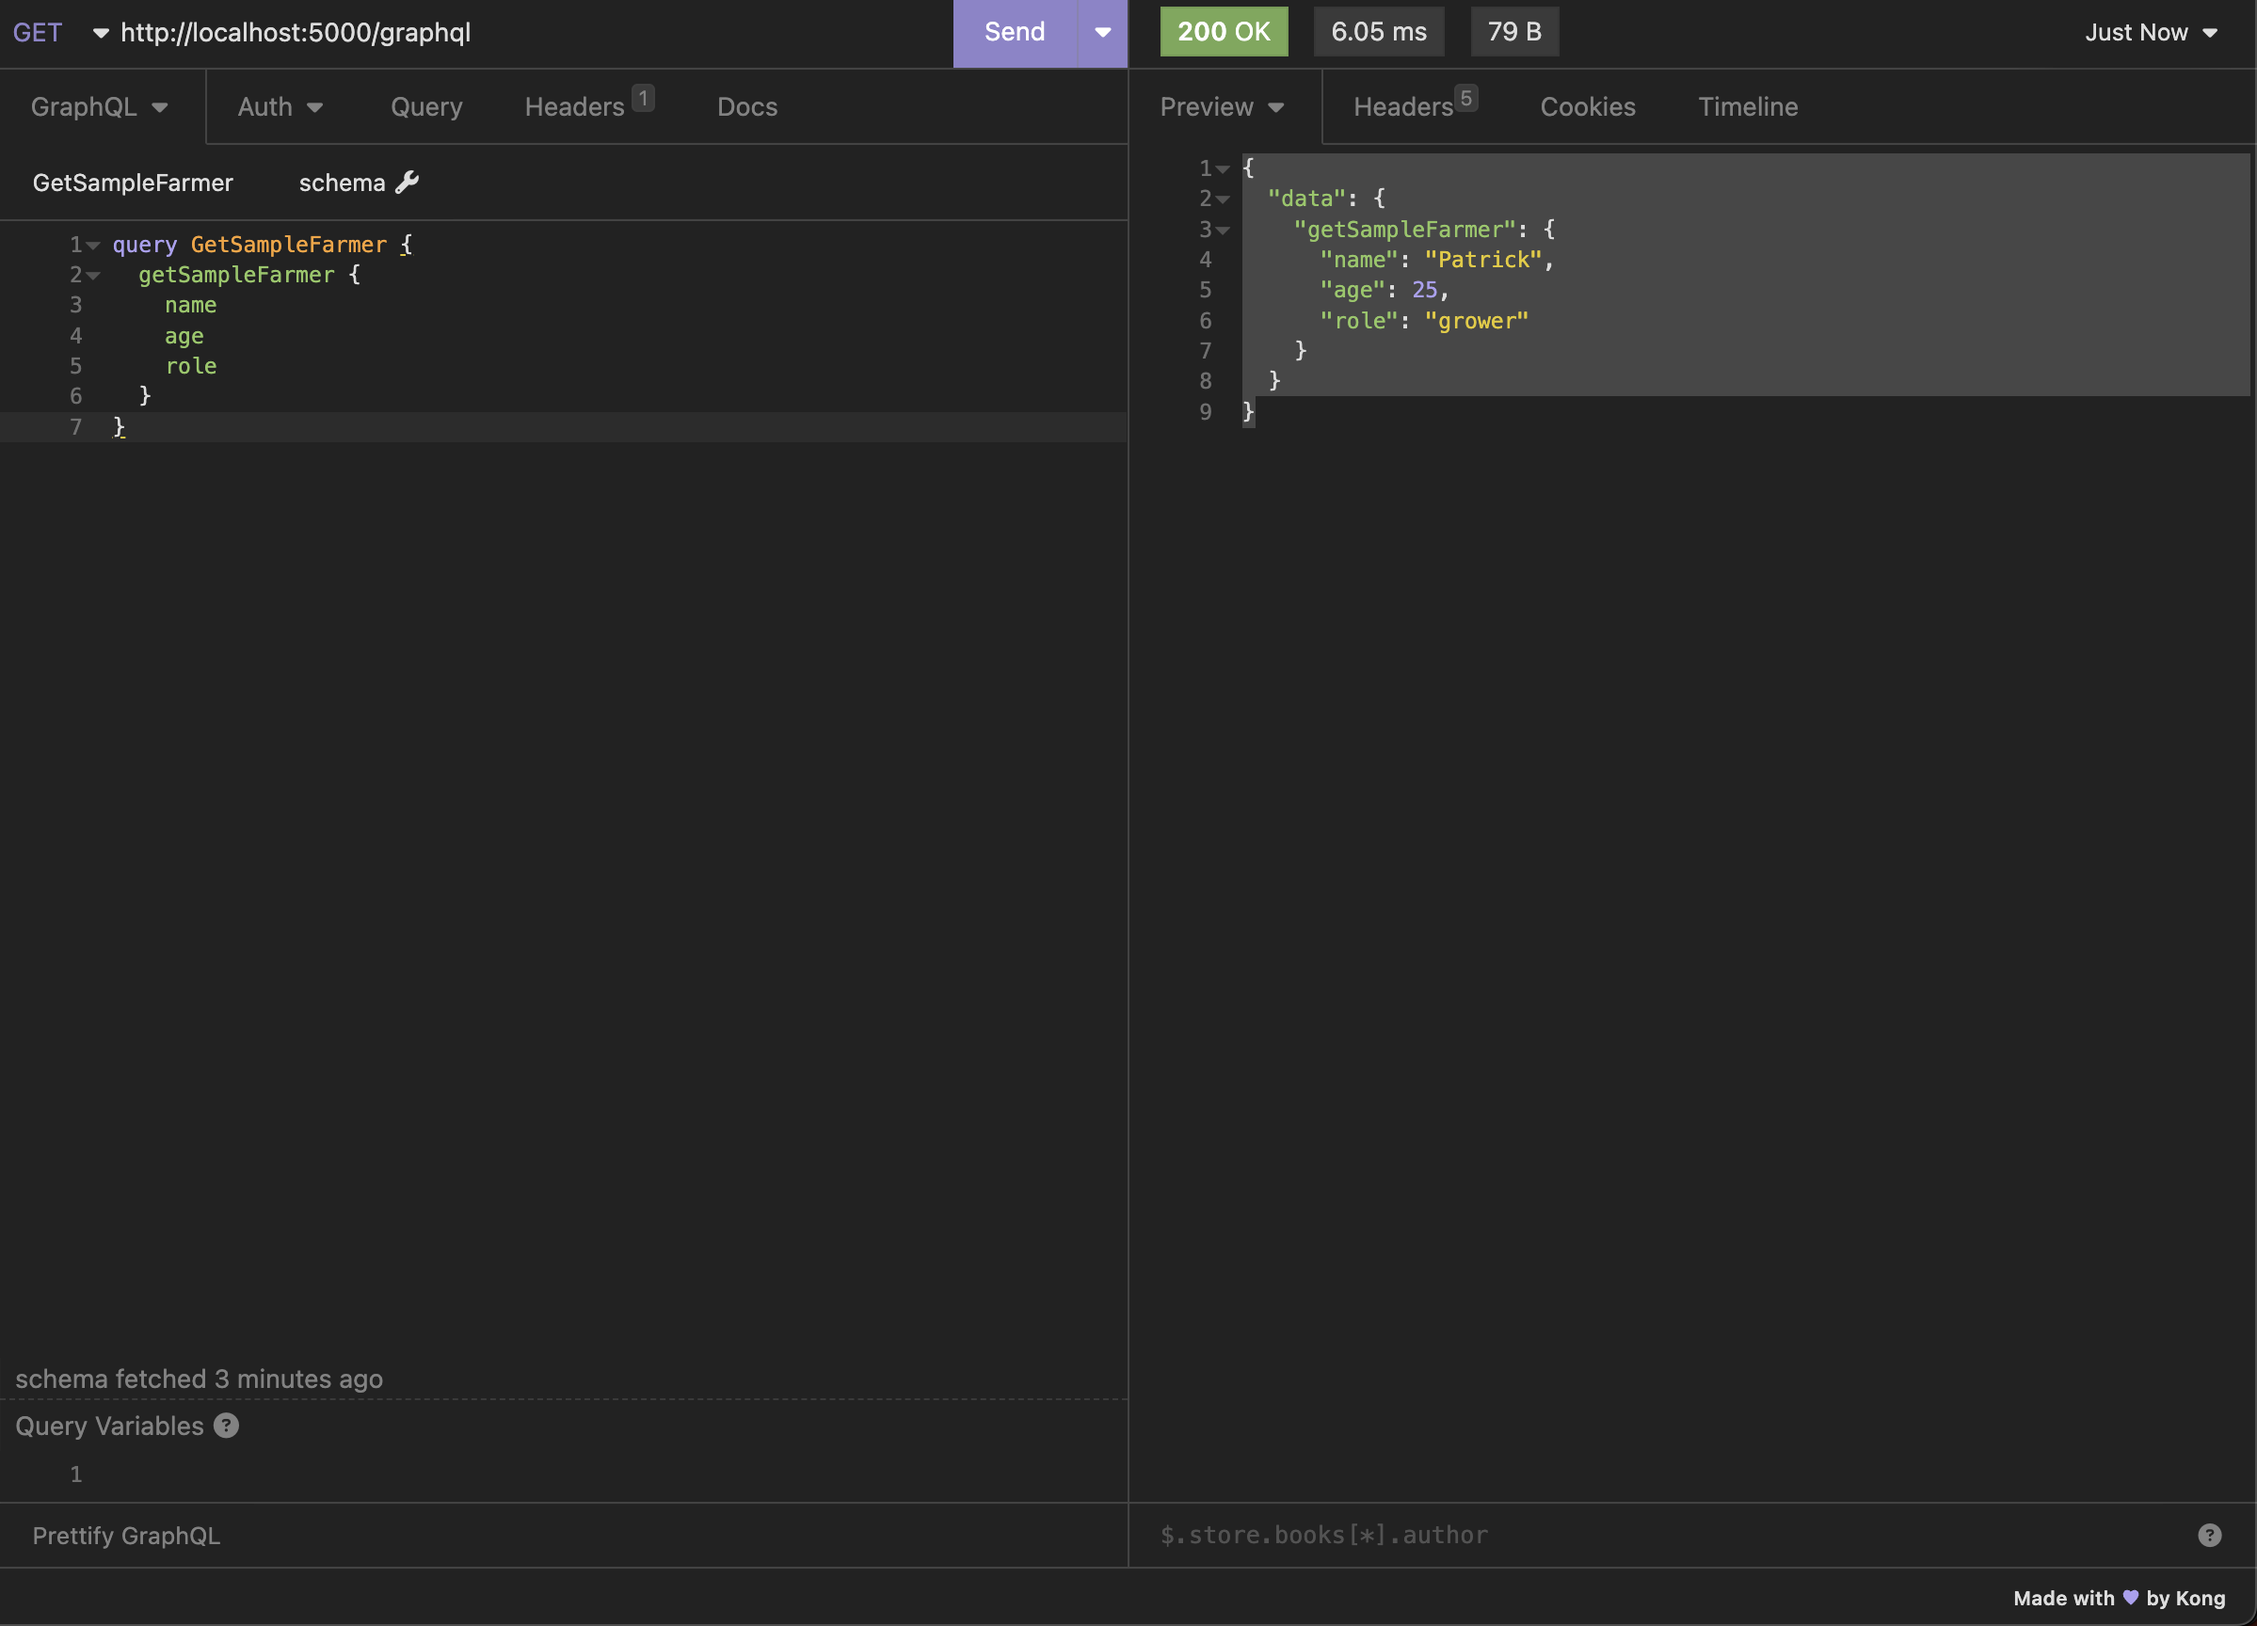
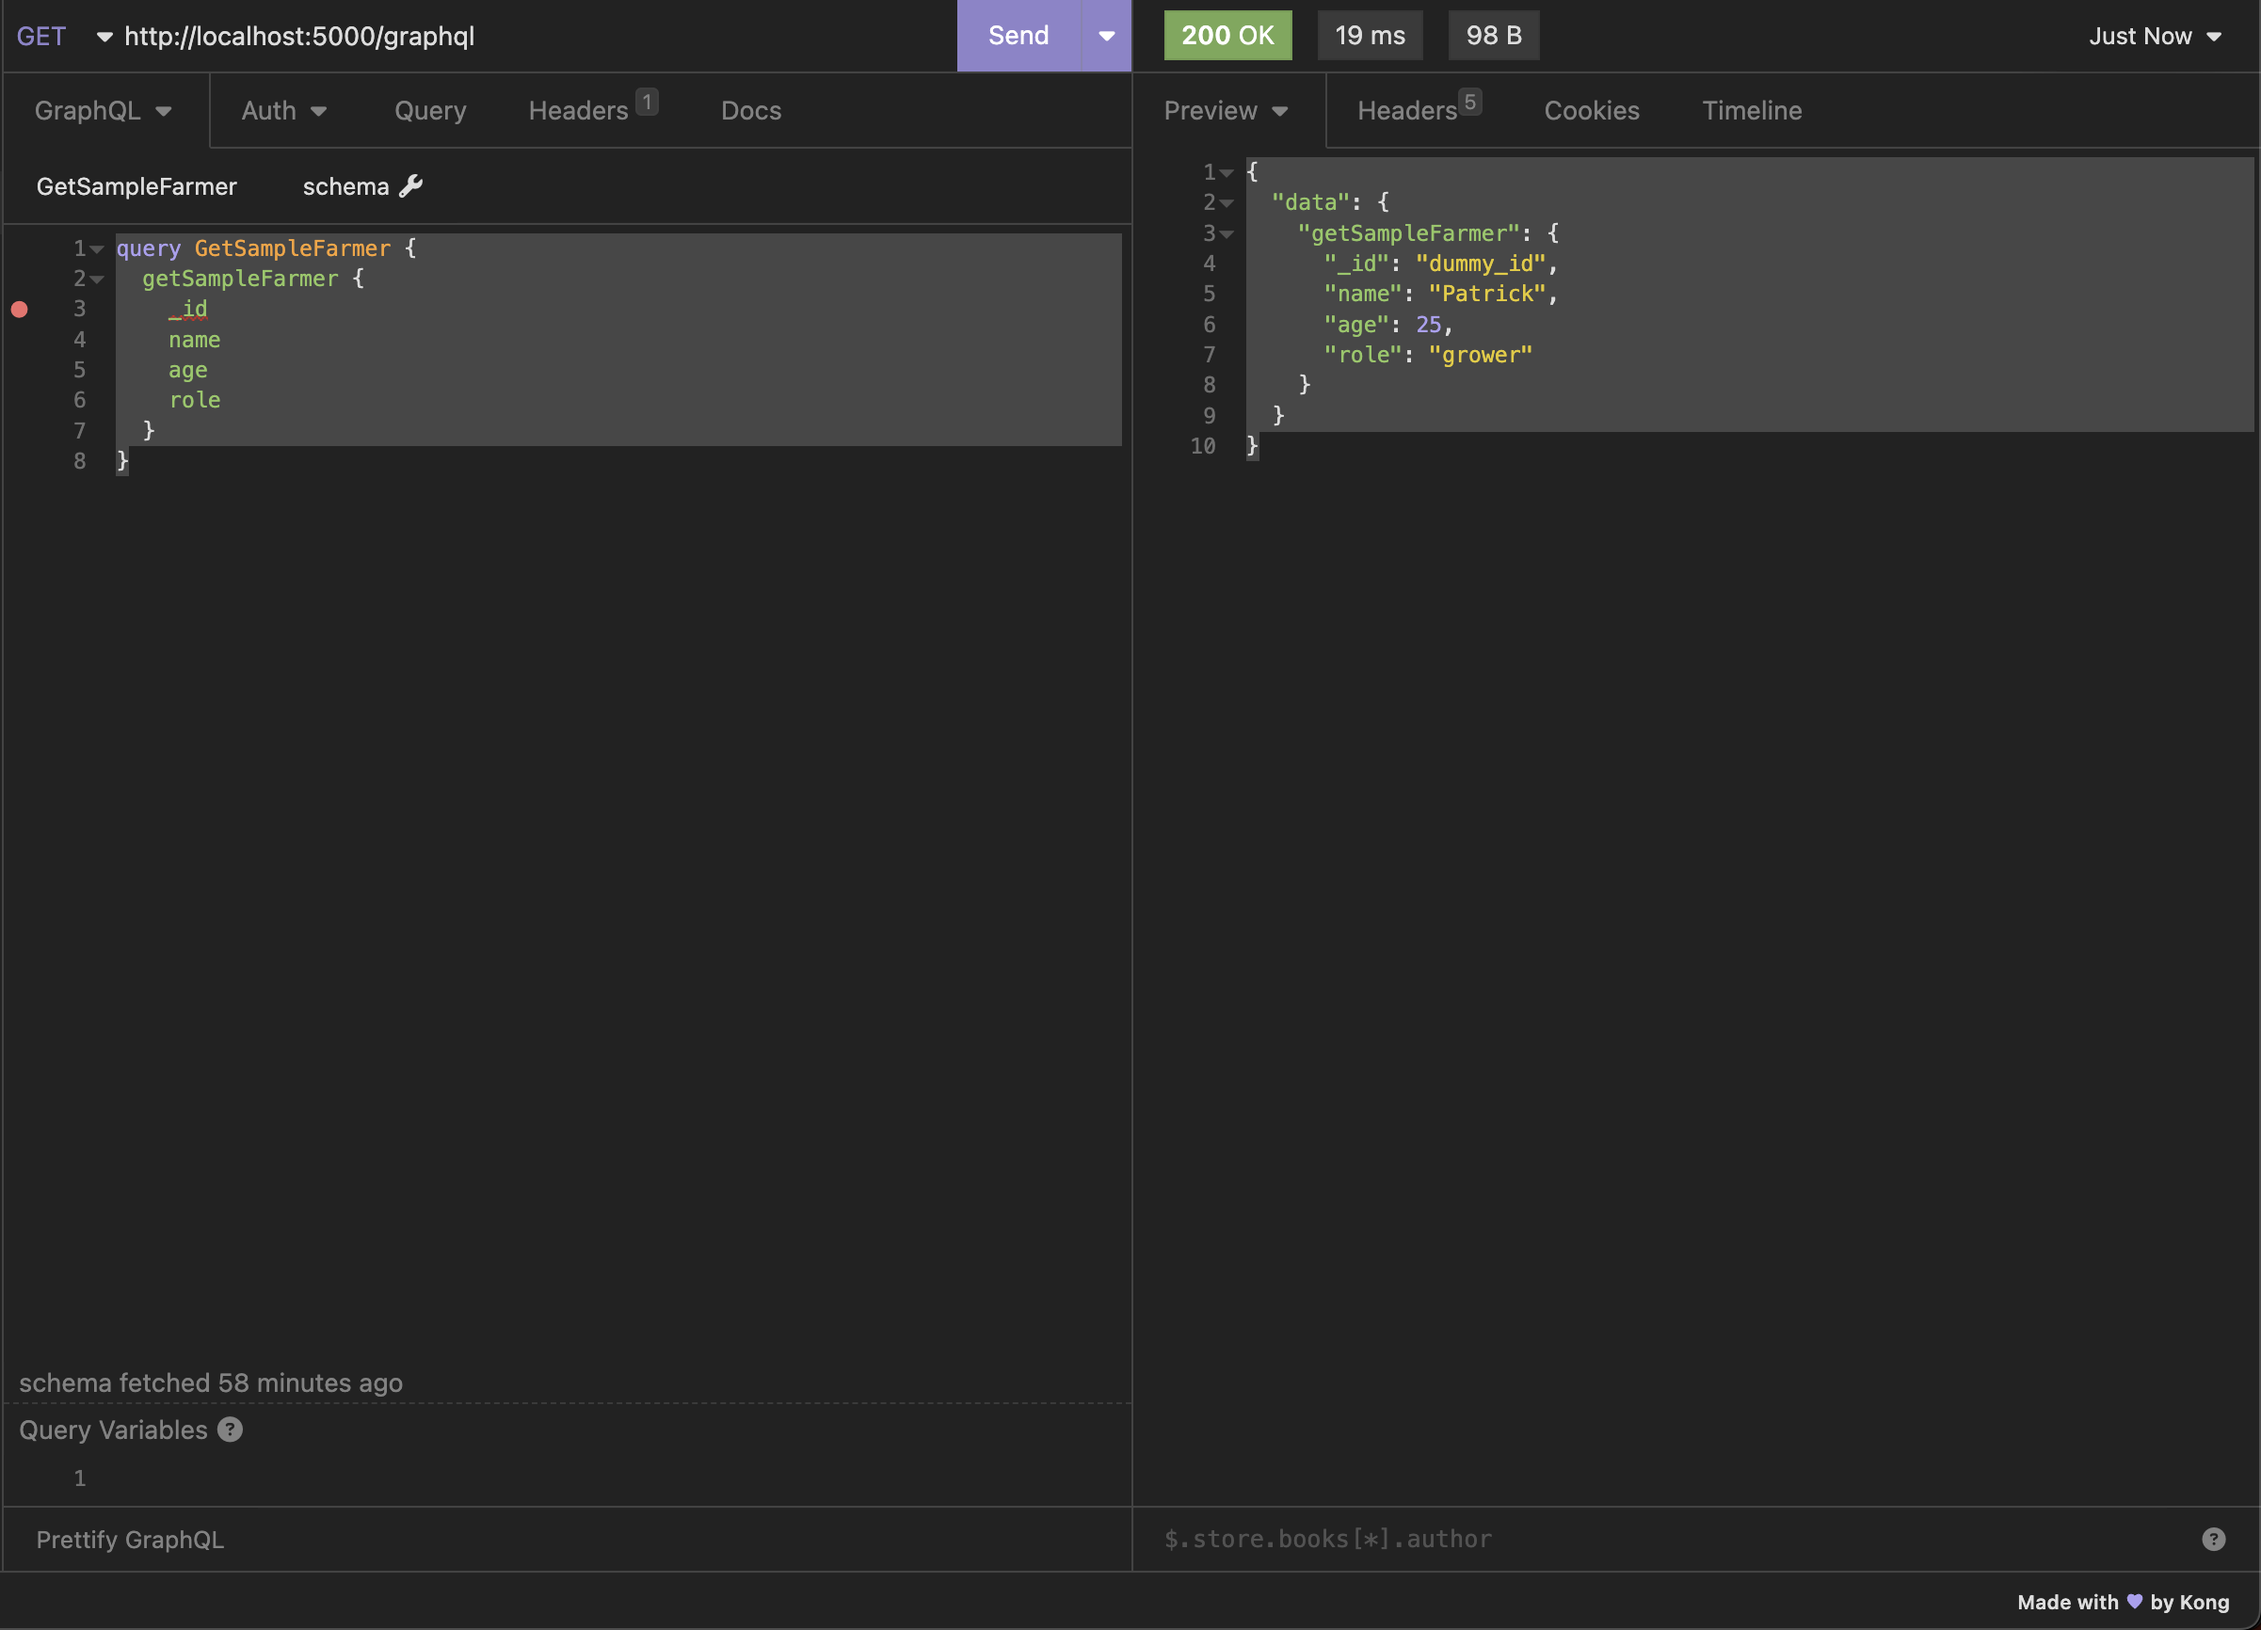
fix validation errors and update readme with more sample queries and mutations

diff --git a/graphql_layer/pydantic_models/pydantic_types.py b/graphql_layer/pydantic_models/pydantic_types.py
@@ -1,7 +1,8 @@
 from enum import Enum
 from typing import Optional
 
-from pydantic import BaseModel, Field
+from bson import ObjectId
+from pydantic import BaseModel, Field, validator
 
 from mongo_layer.models.insert_result import InsertResult
 
@@ -36,6 +37,17 @@ class OutputStrawberryFarmer(BaseModel):
     age: int
     role: FarmerRole
 
+    @validator("id", pre=True)
+    def cast_object_id_to_str_id(cls, v):
+        """
+        Mongo gives us an ObjectId, but we want to return a string
+        Cast it to a str here
+        """
+        if isinstance(v, ObjectId):
+            return str(v)
+        else:
+            return v
+
 
 class CreateFarmerMutationResponse(BaseModel):
     id: Optional[str]
@@ -46,10 +58,26 @@ class CreateFarmerMutationResponse(BaseModel):
     """
 
     @staticmethod
-    def from_insert_result(insert_result: InsertResult) -> "CreateFarmerMutationResponse":
+    def from_insert_result(
+        insert_result: InsertResult,
+    ) -> "CreateFarmerMutationResponse":
         """
         Creates a CreateFarmerMutationResponse from a mongo InsertResult
         """
         return CreateFarmerMutationResponse(
             id=insert_result.id, success=insert_result.success
         )
+
+
+if __name__ == "__main__":
+    """
+    Demonstrates us parsing the payload from mongo into an OutputStrawberryFarmer
+    """
+    mongo_json: dict[str, str] = {
+        "_id": ObjectId(),
+        "name": "John",
+        "age": "30",
+        "role": "Quality Manager",
+    }
+    farmer: OutputStrawberryFarmer = OutputStrawberryFarmer.parse_obj(mongo_json)
+    print(farmer)

diff --git a/mongo_layer/strawberry_farmer_service.py b/mongo_layer/strawberry_farmer_service.py
@@ -1,5 +1,5 @@
 from abc import ABC
-from typing import Optional, List
+from typing import Optional, List, Dict, Any
 
 from bson import ObjectId
 from pymongo import MongoClient
@@ -79,8 +79,11 @@ class StrawberryFarmerMongoDAOImpl(StrawberryFarmerDAO):
         :param id: The id of the farmer
         :return: return a StrawberryFarmer if found, else None
         """
-        farmer: Optional[OutputStrawberryFarmer] = self.collection.find_one(
+        raw_farmer: Optional[Dict[str, Any]] = self.collection.find_one(
             {"_id": ObjectId(id)}
+        )
+        farmer: Optional[OutputStrawberryFarmer] = (
+            OutputStrawberryFarmer.parse_obj(raw_farmer) if raw_farmer else None
         )
         return farmer
 
@@ -91,5 +94,8 @@ class StrawberryFarmerMongoDAOImpl(StrawberryFarmerDAO):
         :param name: The name of the farmer
         :return: return a StrawberryFarmer if found, else None
         """
-        farmers: Cursor = self.collection.find({"name": name})
-        return list(farmers)
+        raw_farmer_cursor: Cursor = self.collection.find({"name": name})
+        farmers: List[OutputStrawberryFarmer] = [
+            OutputStrawberryFarmer.parse_obj(raw_farmer) for raw_farmer in raw_farmer_cursor
+        ]
+        return farmers

diff --git a/graphql_layer/strawberry_query.py b/graphql_layer/strawberry_query.py
@@ -48,7 +48,7 @@ class Query:
         Returns an output GraphQL Output Type, which is a strawberry type, with a pydantic model as its base
         """
         strawberry_farmer: OutputStrawberryFarmer = OutputStrawberryFarmer(
-            id="dummy_id", name="Patrick", age=25, role=FarmerRole.grower
+            _id="dummy_id", name="Patrick", age=25, role=FarmerRole.grower
         )
         # Use the strawberry type's from_pydantic method to convert the pydantic model to a strawberry type
         graphql_strawberry_farmer: GraphQLStrawberryFarmer = (

diff --git a/README.md b/README.md
@@ -56,7 +56,7 @@ Press CTRL+C to quit
 
 POST `http://localhost:5000/graphql`
 
-Graphql Input
+Graphql Query
 
 ```
 query HelloWorld {
@@ -81,11 +81,12 @@ Graphql Output
 
 POST `http://localhost:5000/graphql`
 
-Graphql Input
+Graphql Query
 
 ```
 query GetSampleFarmer {
 	getSampleFarmer {
+		_id
 		name
 		age
 		role
@@ -99,6 +100,7 @@ Graphql Output
 {
 	"data": {
 		"getSampleFarmer": {
+			"_id": "dummy_id",
 			"name": "Patrick",
 			"age": 25,
 			"role": "grower"
@@ -108,3 +110,136 @@ Graphql Output
 ```
 
 ![Query to sampleFarmer](pictures/query_sample_farmer.png)
+
+**3. Calling a Mutation - Inserting a Strawberry Farmer**
+
+POST `http://localhost:5000/graphql`
+
+Graphql Mutation
+
+```
+mutation CreateFarmer($input: GraphQLInputStrawberryFarmer!){
+	createFarmer(farmer: $input) {
+		id
+		success
+	}
+}
+```
+
+Graphql Variables
+
+```
+{
+	"input": {
+		"age": 27,
+		"name": "Jaminator",
+		"role": "quality_manager"
+	}
+}
+```
+
+Graphql Output
+
+```
+{
+	"data": {
+		"createFarmer": {
+			"id": "63f0f3e8d66ad990714cfbad",
+			"success": true
+		}
+	}
+}
+```
+
+![Query to sampleFarmer](pictures/query_sample_farmer.png)
+
+
+**4. Calling a Query - Query Farmers by Name**
+
+POST `http://localhost:5000/graphql`
+
+Graphql Query
+
+```
+query FindFarmersByName($input: GraphQLInputFarmerNameFilter!){
+	getFarmersByName(inputFilter: $input) {
+		_id
+		name
+		age
+		role
+	}
+}
+```
+
+Graphql Variables
+
+```
+{
+	"input": {
+		"name": "Jaminator"
+	}
+}
+```
+
+Graphql Output
+
+```
+{
+	"data": {
+		"getFarmersByName": [
+			{
+				"_id": "63f0f3e8d66ad990714cfbad",
+				"name": "Jaminator",
+				"age": 27,
+				"role": "quality_manager"
+			}
+		]
+	}
+}
+```
+
+![Query to getFarmerByNames](pictures/query_get_farmers_by_name.png)
+
+**5. Calling a Query - Query Farmer by Id**
+
+POST `http://localhost:5000/graphql`
+
+Graphql Query
+
+```
+query FindFarmersById($input: GraphQLInputFarmerIdFilter!){
+	getFarmerById(inputFilter: $input) {
+		_id
+		name
+		age
+		role
+	}
+}
+```
+
+Graphql Variables
+
+```
+{
+	"input": {
+		"id": "63f0f3e8d66ad990714cfbad"
+	}
+}
+```
+
+Graphql Output
+
+```
+{
+	"data": {
+		"getFarmerById": {
+			"_id": "63f0f3e8d66ad990714cfbad",
+			"name": "Jaminator",
+			"age": 27,
+			"role": "quality_manager"
+		}
+	}
+}
+```
+
+![Query to getFarmerById](pictures/query_get_farmer_by_id.png)
